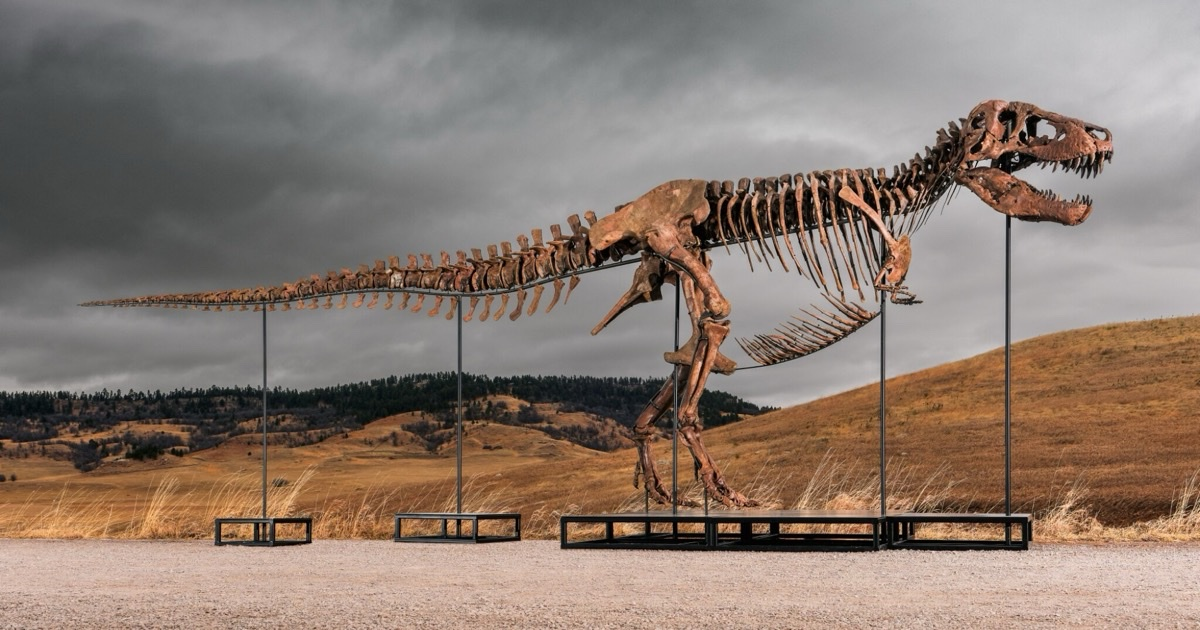
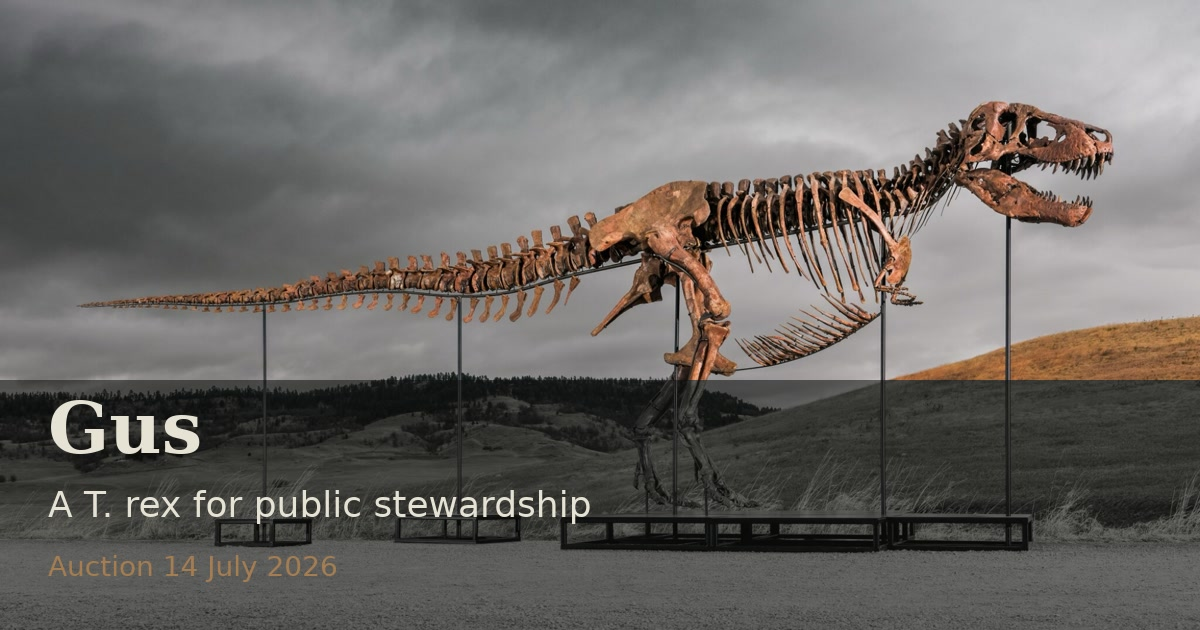
Fix Twitter card previews with production URLs and branded OG image
Use VERCEL_PROJECT_PRODUCTION_URL so og:image and twitter:image resolve to
the live domain instead of localhost when CAMPAIGN_SITE_URL is unset. Add
twitter:url and image:src, a punchier twitter:description, and a 1200×630
branded og-image with title overlay.

diff --git a/README.md b/README.md
@@ -81,3 +81,7 @@ Local testing with the API route: `npm run dev:vercel` (requires [Vercel CLI](ht
 ## Deploy
 
 Static output works on Vercel (`dist/` after build). Vercel also runs `/api/*` serverless functions for Resend. Supabase uses the browser anon key only; never expose `SUPABASE_SERVICE_ROLE_KEY` or `RESEND_API_KEY` to the client.
+
+### Link previews (Twitter / iMessage / Slack)
+
+OG and Twitter Card tags are baked in at **build** time. On Vercel, `VERCEL_PROJECT_PRODUCTION_URL` supplies your production domain automatically; override with `CAMPAIGN_SITE_URL` if needed. The share image is `public/images/og-image.jpg` (1200×630). After deploy, refresh the cache with [Twitter’s Card Validator](https://cards-dev.twitter.com/validator) or similar tools—previews can lag until the crawler re-fetches the page.